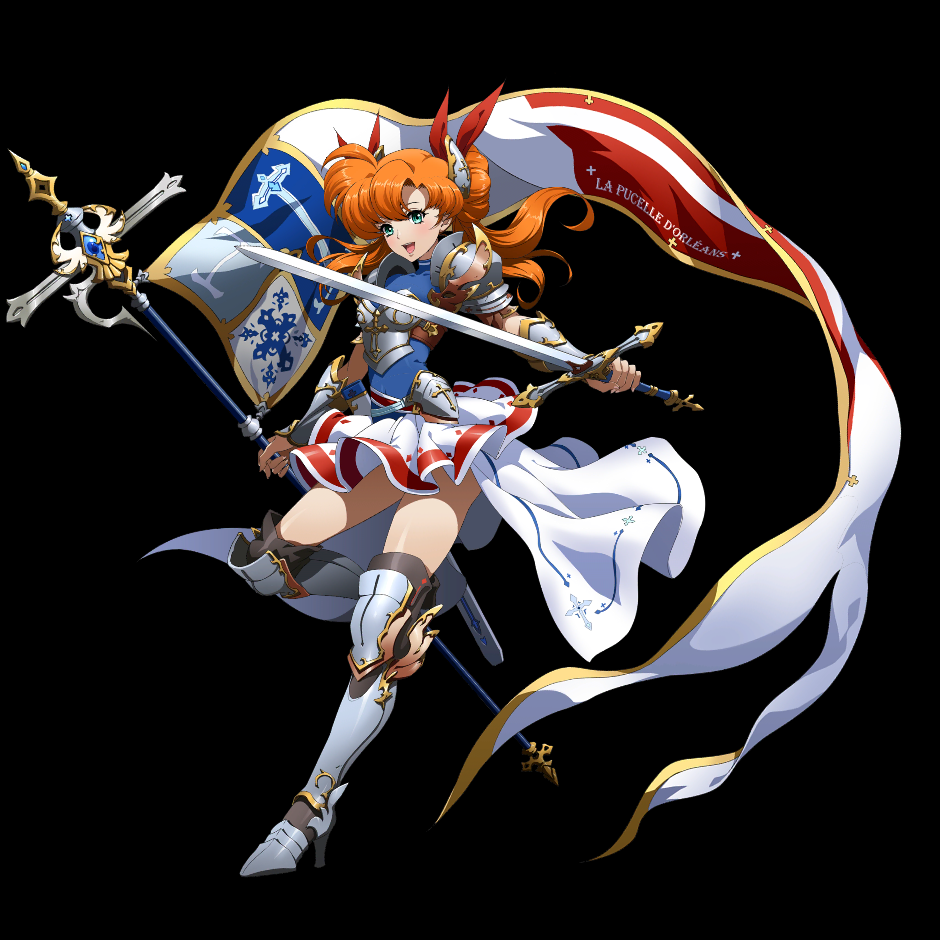
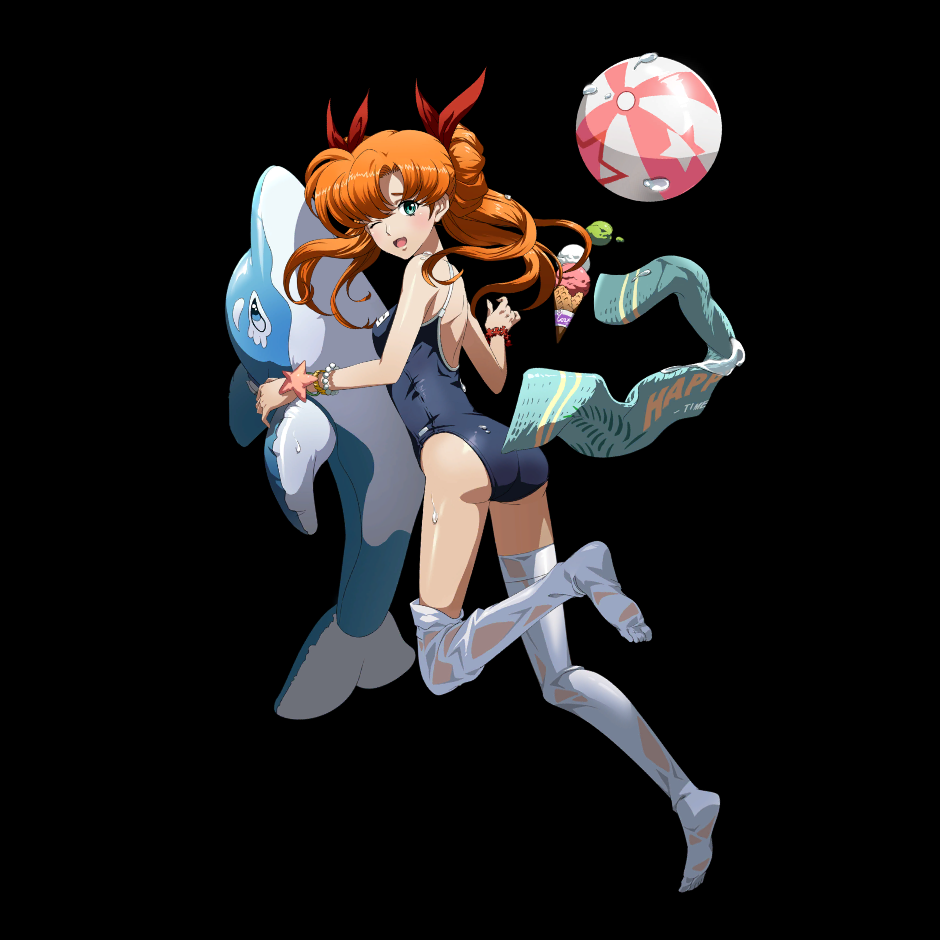
rr

diff --git a/hero/티아리스.html b/hero/티아리스.html
@@ -51,16 +51,21 @@
 
 			<div class="mySlides fade">
 			  <img src="../img/full/티아리스/2.png" style="width:100%">
+			  <div class="text">한정판매</div>
+			</div>
+
+			<div class="mySlides fade">
+			  <img src="../img/full/티아리스/3.png" style="width:100%">
 			  <div class="text">형귀스킨</div>
 			</div>
 			
 			<div class="mySlides fade">
-			  <img src="../img/full/티아리스/3.png" style="width:100%">
+			  <img src="../img/full/티아리스/4.png" style="width:100%">
 			  <div class="text">한정판매</div>
 			</div>
 			
 			<div class="mySlides fade">
-			  <img src="../img/full/티아리스/4.png" style="width:100%">
+			  <img src="../img/full/티아리스/5.png" style="width:100%">
 			  <div class="text">한정판매</div>
 			</div>
 			
